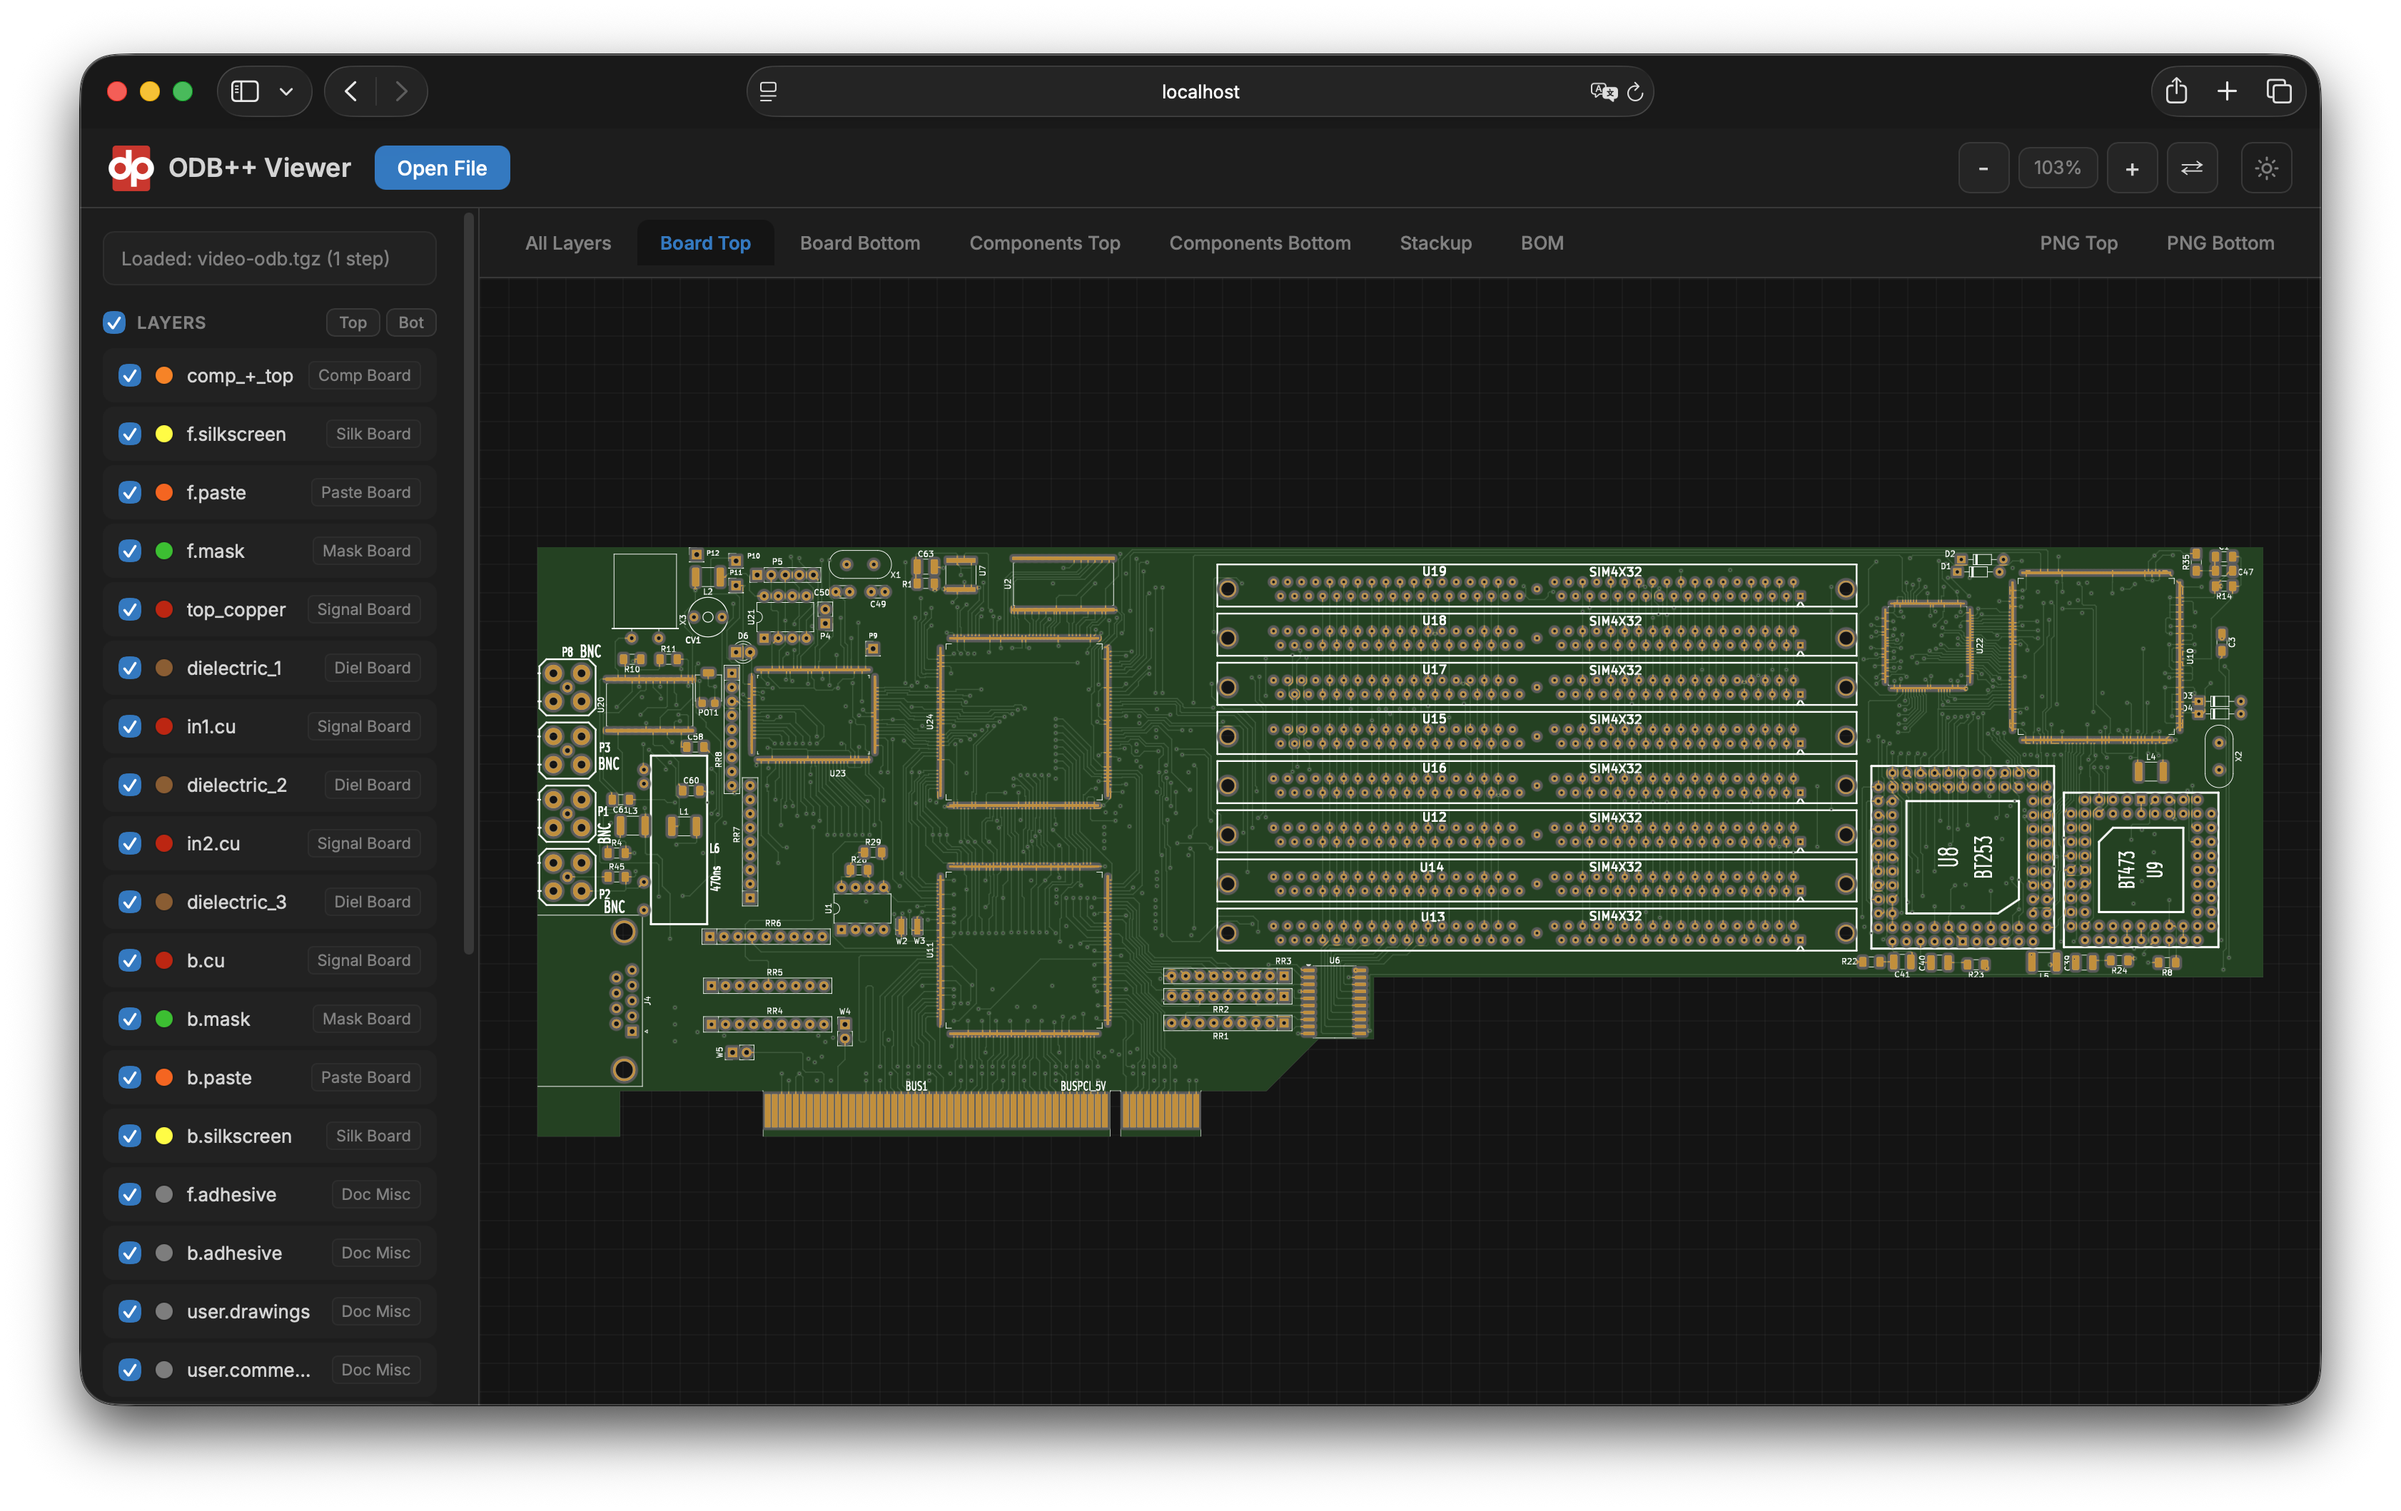
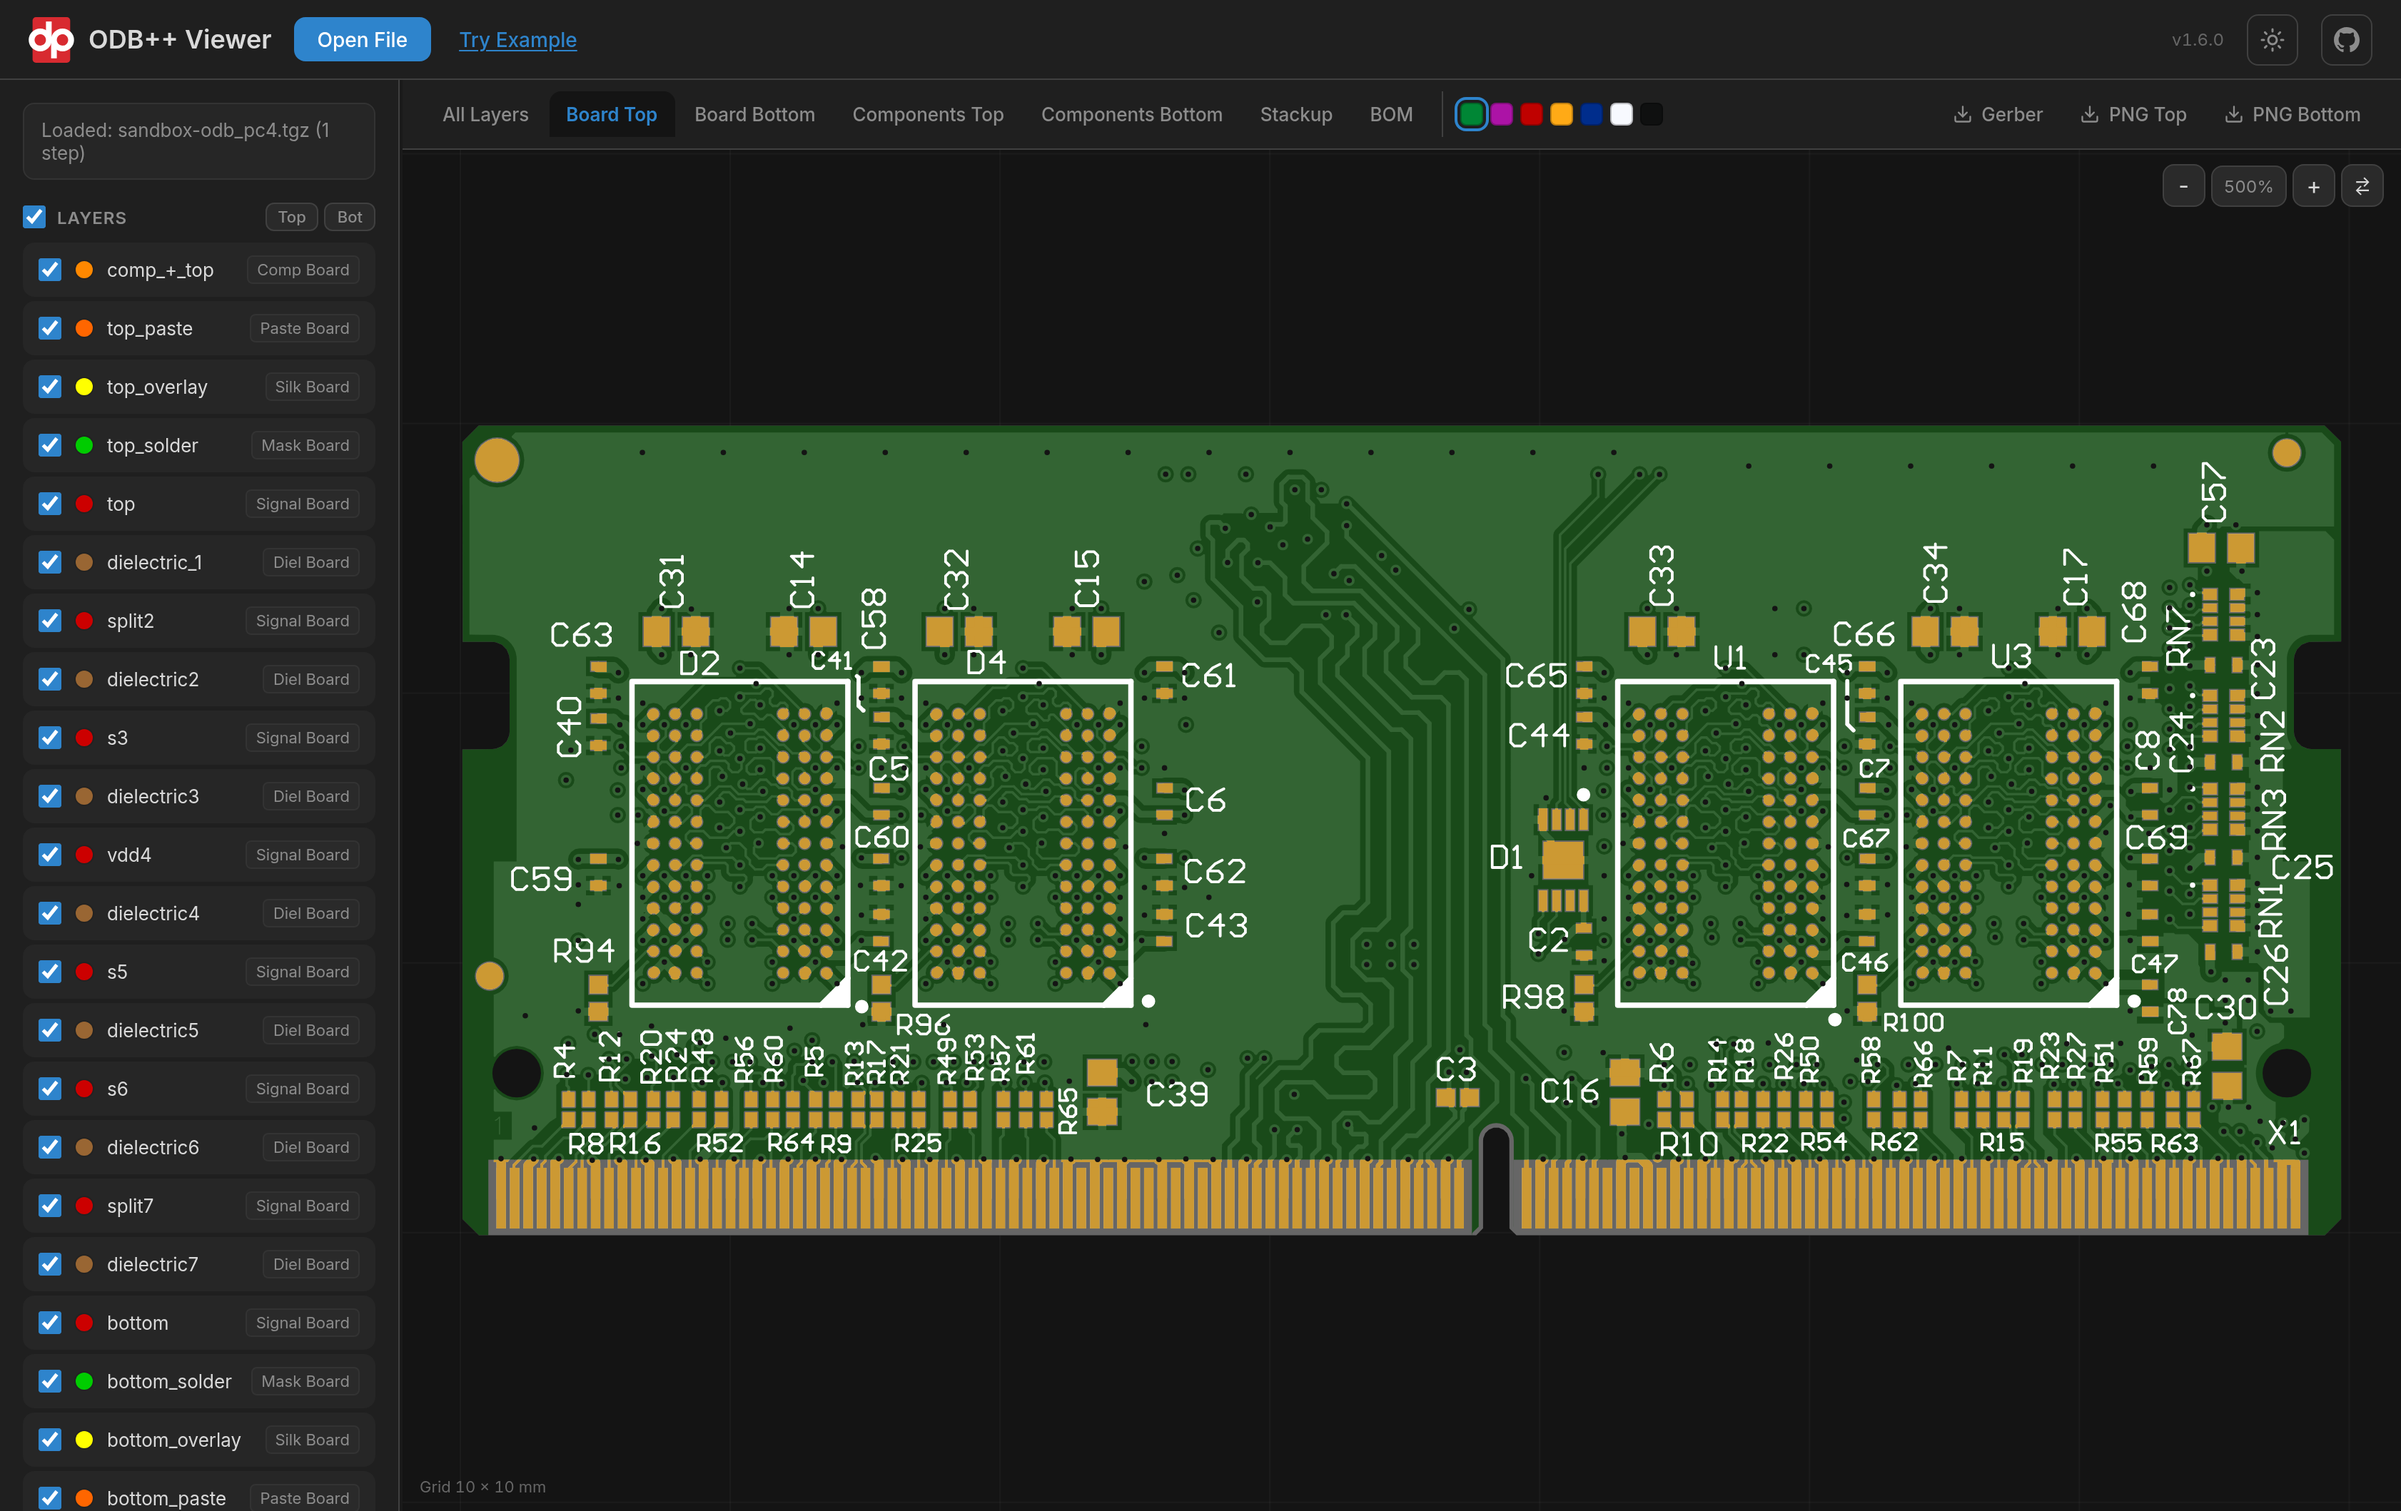
README: new viewer screenshots and an up-to-date feature list
Eight screenshots of the web viewer on the open sample archives: realistic
board views, layer view, soldermask colours, rigid-flex, component overlay,
stackup, BOM and the light theme. The rendering and viewer feature lists and
the Maven coordinates follow the 1.6.0 release.

Claude-Session: https://claude.ai/code/session_01CqMAZPSP6X4DWTZvwkqEqm

diff --git a/README.md b/README.md
@@ -3,11 +3,26 @@
 A Java library for parsing ODB++ PCB design archives, rendering them to SVG/PNG,
 and converting them to Gerber X2 + Excellon. Ships with an interactive web viewer.
 
-![ODB++ Viewer — Board Top](docs/screenshot-board-top.png)
+![ODB++ Viewer — realistic board view of a DDR4 SO-DIMM](docs/screenshot-board-top.png)
 
-| Layer Stackup | Component Placement |
-|---------------|---------------------|
-| ![PCB layer stackup](docs/screenshot-stackup.png) | ![Component placement](docs/screenshot-components.png) |
+*The bundled web viewer showing the realistic top side of an 8-layer memory module —
+copper, soldermask, silkscreen, gold fingers and drills, rendered straight from the
+ODB++ archive.*
+
+## The Viewer at a Glance
+
+| | |
+|---|---|
+| ![All Layers view with the top-side layers selected](docs/screenshot-layers.png) | ![Board Top with a blue soldermask](docs/screenshot-soldermask.png) |
+| **Layer view** — every matrix layer as its own toggleable SVG layer; *Top* / *Bot* pick one side of the board, hovering a layer isolates it | **Soldermask colours** — green, purple, red, yellow, blue, white or black, switched live in the realistic views |
+| ![Rigid-flex board, top side, black soldermask](docs/screenshot-rigid-flex.png) | ![Rigid-flex board, bottom side](docs/screenshot-board-bottom.png) |
+| **Rigid-flex** — flex tail, coverlay and the dense BGA fan-outs of a 10-layer rigid-flex design | **Both sides** — the bottom of the same board, viewed from below |
+| ![Component placement overlay](docs/screenshot-components.png) | ![PCB layer stackup](docs/screenshot-stackup.png) |
+| **Components** — package outlines, pins and reference designators over the board, per side | **Stackup** — materials, dielectric constants and thicknesses, with the stack sum |
+| ![Bill of materials](docs/screenshot-bom.png) | ![Light theme](docs/screenshot-light.png) |
+| **BOM** — parts grouped with their reference designators, searchable, exportable as BOM or centroid CSV | **Light and dark themes** — plus one-click Gerber and PNG downloads |
+
+All screenshots show the openly-available sample archives in [`examples/`](examples).
 
 ## Maven Dependency
 
@@ -15,7 +30,7 @@ and converting them to Gerber X2 + Excellon. Ships with an interactive web viewe
 <dependency>
     <groupId>com.deltaproto</groupId>
     <artifactId>delta-odbpp</artifactId>
-    <version>1.0.0</version>
+    <version>1.6.0</version>
 </dependency>
 ```
 
@@ -31,9 +46,18 @@ and converting them to Gerber X2 + Excellon. Ships with an interactive web viewe
 - Malformed or partial archives degrade gracefully with recorded warnings
 
 ### SVG / PNG Rendering
-- Per-layer SVG rendering with the full ODB++ symbol catalogue
+- Per-layer SVG rendering with the full ODB++ standard-symbol catalogue: every
+  symbol is drawn from its exact outline (thermals, donuts, rounded and chamfered
+  rectangles, ovals, butterflies, moiré, hole symbols, …), user-defined symbols
+  included, with rotation, mirroring and resize
 - Multi-layer composite rendering with configurable colours and opacity
-- Realistic top/bottom PCB views (copper, soldermask, silkscreen, drills)
+- Realistic top/bottom PCB views: copper under soldermask, exposed pads in the
+  surface finish, silkscreen, through holes, and blind or micro vias as dimples
+  under the mask; seven soldermask colours
+- Negative (clear) features cut through the layer instead of being painted in the
+  background colour, so layers stay correct when stacked
+- Frames are computed from what a layer actually draws — pad shapes, stroke
+  widths and arc bulges — so nothing on the edge of the artwork is clipped
 - Component silhouette and centroid views
 - PCB layer-stackup cross-section view
 - PNG rasterisation of any view through the Batik pipeline
@@ -59,9 +83,18 @@ and converting them to Gerber X2 + Excellon. Ships with an interactive web viewe
   `GerberReferenceTest`)
 
 ### Web Viewer (`delta-odbpp-app`)
-- Spring Boot app: upload an archive, view layers as stacked SVG
-- Top / bottom / dual view modes, per-layer toggling, pan/zoom
-- Component centroid overlay
+- Spring Boot app: open an archive (or press **Try Example**) and browse it in
+  the browser — nothing is installed on the client
+- **All Layers**: stacked SVG layers in matrix order with per-layer toggling,
+  *Top* / *Bot* side filters, hover-to-isolate, pan and zoom on a millimetre grid
+- **Board Top / Board Bottom**: realistic renders with a live soldermask colour
+  picker
+- **Components Top / Bottom**: package outlines and reference designators over
+  the board
+- **Stackup**: layer table with materials, Dk and thicknesses
+- **BOM**: searchable parts list with BOM and centroid CSV export
+- Downloads: Gerber X2 + Excellon zip, PNG of either side
+- Light and dark themes
 
 ## Quick Start
 
